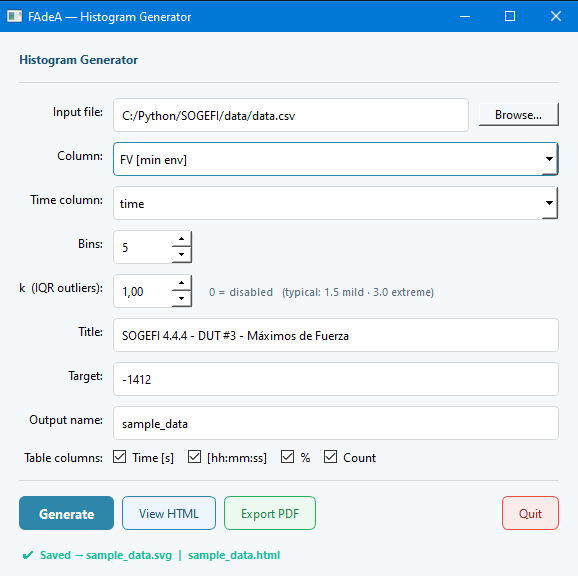
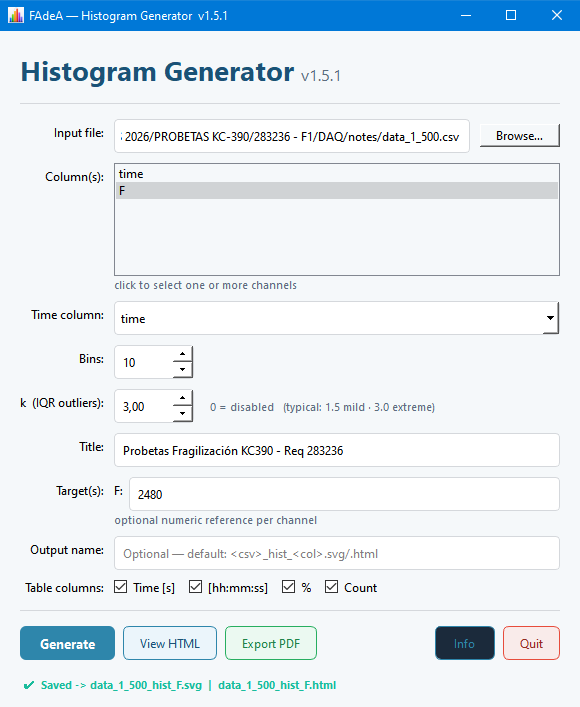
add show/hide outliers toggle to GUI and charts
New "Show outliers in charts" checkbox controls whether IQR-detected
outliers (k>0) are drawn. The histogram now overlays them as diamond
markers along the baseline, and the box-plot swarm is suppressed when
unchecked. Preference is threaded through make_histogram and persisted
to config.ini. Also refreshes the GUI screenshot and last-used settings.

diff --git a/histogram.py b/histogram.py
@@ -571,9 +571,14 @@ PALETTE = {
 
 def build_histogram_chart(col, values, weights, counts, edges, stats, target,
                           y_label, time_col, k, n_removed, nbins,
-                          main_title, sub_title, out_stem):
+                          main_title, sub_title, out_stem,
+                          outliers=None, show_outliers=True):
     """Build and save one channel's histogram figure (SVG + companion PNG).
-    Returns ``(fig, svg_path)`` — the caller closes or shows the figure."""
+    Returns ``(fig, svg_path)`` — the caller closes or shows the figure.
+
+    *outliers* are the samples removed by the IQR filter; when *show_outliers*
+    is true they are drawn as a marker rug along the baseline so they stay
+    visible even though they are excluded from the bins."""
     w_mean, w_std, p25, p50, p75, v_min, v_max, total_weight = stats
     centers   = 0.5 * (edges[:-1] + edges[1:])
     bin_width = edges[1] - edges[0]
@@ -600,6 +605,14 @@ def build_histogram_chart(col, values, weights, counts, edges, stats, target,
     if target is not None:
         ax.axvline(target, color=PALETTE["target_line"], linewidth=2.2,
                    linestyle="-.", zorder=4, label=f"Target = {target:.5g}")
+
+    outl = np.asarray(outliers, dtype=float) if outliers is not None else np.empty(0)
+    outl = outl[~np.isnan(outl)]
+    if show_outliers and outl.size:
+        ax.scatter(outl, np.zeros_like(outl), marker="D",
+                   color=PALETTE["bar_peak"], edgecolor=PALETTE["peak_edge"],
+                   s=42, linewidth=0.6, zorder=6, clip_on=False,
+                   label=f"Outliers ({outl.size})")
 
     if len(np.unique(values)) > 1:
         kde   = gaussian_kde(values, weights=weights, bw_method="scott")
@@ -661,7 +674,8 @@ def build_histogram_chart(col, values, weights, counts, edges, stats, target,
 
 
 def make_histogram(cols, csv_path, time_col_arg, nbins, title, k=0.0,
-                   show_cols=None, out_name=None, target=None, show_plot=True):
+                   show_cols=None, out_name=None, target=None, show_plot=True,
+                   show_outliers=True):
     """Core engine — called by both CLI and GUI paths.
 
     *cols* may be a single column name or a list of column names; one combined
@@ -772,6 +786,7 @@ def make_histogram(cols, csv_path, time_col_arg, nbins, title, k=0.0,
             col, values, weights, counts, edges, stats, tgt,
             y_label, time_col, k, n_removed, nbins,
             main_title, sub_title, chan_stem,
+            outliers=outlier_values, show_outliers=show_outliers,
         )
         figs.append(fig)
 
@@ -780,7 +795,8 @@ def make_histogram(cols, csv_path, time_col_arg, nbins, title, k=0.0,
             if tgt is not None else (None, None)
         )
         box_svg, quartiles = build_boxplot_chart(
-            values, col, chan_stem, color_idx=idx, outliers=outlier_values, target=tgt
+            values, col, chan_stem, color_idx=idx,
+            outliers=(outlier_values if show_outliers else None), target=tgt
         )
 
         channels.append(dict(
@@ -1201,6 +1217,18 @@ def run_gui():
             ck_row.addStretch()
             form.addRow("Table columns:", ck_row)
 
+            # ── outlier visibility ─────────────────────────────────────────────
+            self.ck_outliers = QCheckBox("Show outliers in charts")
+            self.ck_outliers.setChecked(True)
+            self.ck_outliers.setToolTip(
+                "When k > 0, draw the IQR-detected outliers on the histogram "
+                "and box-plot charts (they remain excluded from the bins/box)."
+            )
+            out_ck_row = QHBoxLayout()
+            out_ck_row.addWidget(self.ck_outliers)
+            out_ck_row.addStretch()
+            form.addRow("Outliers:", out_ck_row)
+
             # ── separator ─────────────────────────────────────────────────────
             line2 = QFrame()
             line2.setFrameShape(QFrame.HLine)
@@ -1409,6 +1437,7 @@ def run_gui():
             self.ck_time_hms.setChecked(cfg.get("col_time_hms", "1") != "0")
             self.ck_pct.setChecked(     cfg.get("col_pct",      "1") != "0")
             self.ck_count.setChecked(   cfg.get("col_count",    "1") != "0")
+            self.ck_outliers.setChecked(cfg.get("show_outliers", "1") != "0")
 
         def _run(self):
             sel_cols = self._selected_cols()
@@ -1443,6 +1472,7 @@ def run_gui():
                 "col_time_hms": int(self.ck_time_hms.isChecked()),
                 "col_pct":      int(self.ck_pct.isChecked()),
                 "col_count":    int(self.ck_count.isChecked()),
+                "show_outliers": int(self.ck_outliers.isChecked()),
             })
             self.btn_run.setEnabled(False)
             self._set_status("Generating…", "busy")
@@ -1458,6 +1488,7 @@ def run_gui():
                     out_name     = self.w_out.text().strip() or None,
                     target       = target,
                     show_plot    = False,
+                    show_outliers = self.ck_outliers.isChecked(),
                     show_cols    = {
                         "time_s":   self.ck_time_s.isChecked(),
                         "time_hms": self.ck_time_hms.isChecked(),